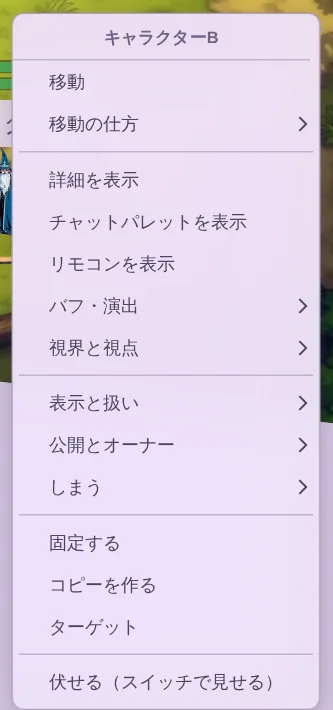
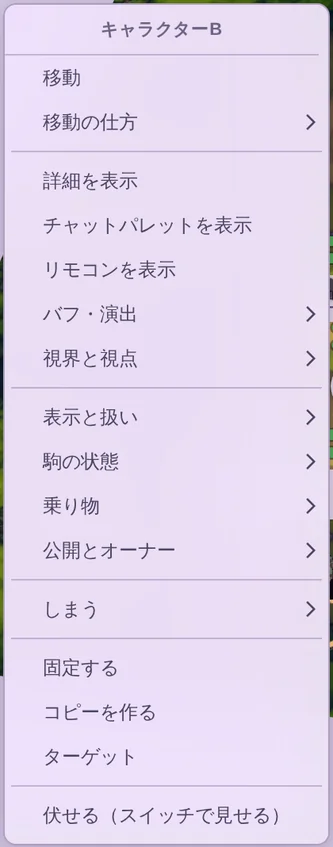
docs(website): bring the manual, the feature list and the v1.66.0 notes up to date
- The notes say only the piece's menu is grouped now, sum up ruby and the
  see-through pictures among the rest, are dated for today, and list the
  fixes to what earlier versions already did: the hex pedestal turning a
  piece pressed inside it, submenus opening where the first one opened, and
  chat search marks left behind by a box closed at once.
- Riding says who may not steer a mount, that a rider held by an enemy is
  left behind and gets off, and when a mount keeps a turn of its own.
- Engagement zones say what a reader who does not see a piece is shown and
  asked, that riders and those held are set out with their mount or holder,
  and that two zones joined keep the lower limit set on them.
- Kinds of move say a move in cells rounds down once, after the factor.
- The feature list gains engagement zones, mounts, kinds of move, ways of
  straight legs and see-through pictures, and the piece menu shot is taken
  again from the menu as it now stands.

diff --git a/website/release-notes/v1.66.0.md b/website/release-notes/v1.66.0.md
@@ -1,6 +1,6 @@
 # v1.66.0
 
-2026-10-12リリース
+2026-10-13リリース
 
 敵と入り乱れて戦っている場所を、円の**交戦エリア**として卓に描けるようになりました。加わっている駒の数で大きさが変わり、近づいたエリアは1つにまとまり、片方の陣営がいなくなれば消えます。経路を決めて動かすときは、届く敵やエリアの側が移動に割り込んで止められます。射線を遮るものの確認、戦闘の始まりの並べ方、距離による修正の表示もそろえました。点と円で位置を管理して戦うルールを、部屋の設定と組み合わせて再現できます。
 
@@ -8,7 +8,11 @@
 
 駒をほかの駒に乗せて、**乗り物**として一緒に動かせるようになりました。乗り物と乗り手は同じ手番に動き、転んだり倒れたりすると乗り手が落ちて、落下距離がチャットに出ます。
 
-コマとテーブルの右クリックメニューは、よく使う項目だけを残し、ほかを名前の付いたグループにまとめました。
+ルビを親文字1文字ずつにも振れるようにし、ルビの見え方を読み手ごとに選べるようにもしました。
+
+コマの絵の透明なところを押すと、後ろにあるコマを掴めます。
+
+コマの右クリックメニューは、よく使う項目だけを残し、ほかを名前の付いたグループにまとめました。
 
 ## ⚔ 交戦エリア
 
@@ -93,4 +97,7 @@ GMは駒のメニューの「初期配置」で、相手の陣営の先頭と、
 - バフ編集の追加ボタンで足したバフが、ラウンドで減っていませんでした。以前のバージョンで足して残っていたバフも、ラウンドで減るようにしました
 - 移動の計画を開いたときに画面の下に出る帯が、最初から開いているチャットウィンドウの下に隠れることがありました。帯をパネルより前に出すようにしました
 - Safariで、ループ位置のある曲の長さが、ジュークボックスに1秒短く出ていました。曲の長さは、一番近い秒で出すようにしました
+- ヘクスの卓で、コマの台座の内側を押して引くと、コマが動かずに回ってしまうことがありました。四角の卓と同じく、台座の内側を押せばコマを掴むようにしました
+- 右クリックメニューで、グループから隣のグループへポインタを移すと、あとのグループの中身が最初に開いた位置に出ていました。開いたグループの横に出るようにしました
+- チャットの検索欄を開いてすぐ閉じると、見つけた言葉の印が残ることがありました
 - `t:HP-([k10@13]+5h+3)`のように、ダイスのコマンドに付く記号が角括弧の外にあるリソース操作が、「計算できません」になっていました。式全体を1つのコマンドとして振るようにしました。角括弧のロールが自動的失敗になったときは、変化なしと出します

diff --git a/website/manual/ride.md b/website/manual/ride.md
@@ -37,9 +37,11 @@
 
 ## 一緒に動く
 
-乗り手が移動の計画を開くと、乗り物の計画になります。数えるのは、乗り物の移動力と、選んだ移動の種類です。歩き終えると、乗っている駒をみな乗り物と同じ点へ運びます。同乗している駒と積まれている駒は、自分では動けません。乗り手のいない乗り物を動かせるのは、GMだけです。
+乗り手が移動の計画を開くと、乗り物の計画になります。数えるのは、乗り物の移動力と、選んだ移動の種類です。歩き終えると、乗っている駒をみな乗り物と同じ点へ運びます。同乗している駒と積まれている駒は、自分では動けません。乗り手のいない乗り物を動かせるのは、GMだけです。倒れている乗り手、その場から動けない乗り手、敵につかまれている乗り手は、乗り物を動かせません。計画を開こうとすると、そのことを知らせます。
 
 乗り物を手で掴んで置いたときも、乗っている駒は一緒に運ばれます。乗っている駒だけを手で掴み、乗り物から離れたところに置くと、その駒はそこで降ります。
+
+敵につかまれている駒は、つかんでいる駒から離れないので、乗り物と一緒には運ばれません。乗り物が動くと、その駒はその場で降ります。
 
 3Dの卓では、乗っている駒は乗り物の上に立ち、乗り物の絵の手前に描かれます。
 
@@ -48,6 +50,8 @@
 ## 手番
 
 [行動順](/manual/turn-order)を回しているあいだ、乗られている乗り物と同乗している駒は、乗り手の手番に一緒に動きます。2つは行動順の一覧から外れ、ラウンド表示では乗り手の丸に小さな丸で重なります。手番の始まりと終わりのバフの減り方も、乗り手と同じです。積まれている駒は、自分の手番のままです。
+
+前に乗る駒が[手番をもたない](/manual/turn-order#手番を持たないコマ)駒か、インベントリに出さない駒のときは、乗り物と同乗している駒は行動順に残り、それぞれの手番で動きます。
 
 手番を回しているあいだは、次の決まりもAxeが守らせます。行動順を回していないときは、どれも止めません。
 

diff --git a/website/guide/features.md b/website/guide/features.md
@@ -52,8 +52,22 @@ GMは、部屋の全員を同じコマの目線にそろえられます。
 コマごとに歩く・登る・泳ぐ・這う・飛ぶを選べて、飛んでいるあいだは地面の追加コストを払いません。
 大きなコマは身を縮めて狭い隙間を通れます。
 1マスが何メートルかを決めておけば、距離は「3マス（15m）」のように出ます。
+「全力」「通常」のような移動の種類を部屋で決めておけば、移動を計画するときに選べます。
+グリッドのない卓では、経路を折れ線で引いて、長さをメートルで数えられます。
 
 くわしくは[移動範囲](/manual/move-range)にあります。
+
+駒をほかの駒に乗せて、乗り物として一緒に動かせます。
+乗り手が移動を計画すると乗り物の移動力で進み、乗り物が転べば乗り手は落ちます。
+→ [乗り物に乗る](/manual/ride)
+
+## 交戦 — 入り乱れた戦いを円で描く
+
+敵と入り乱れて戦っている場所を、円の交戦エリアとして卓に描けます。
+加わっている駒の数で大きさが変わり、近づいたエリアは1つにまとまります。
+経路を決めて動かすときは、届く敵やエリアの側が割り込んで、移動を止められます。
+撃つ前には射線を遮るものを一覧で確かめられ、戦闘の始まりにはGMが両方の陣営を一度に並べられます。
+→ [交戦エリア](/manual/engagement-zone)
 
 ## 一晩を記録して、あとから作り直せる
 
@@ -82,6 +96,7 @@ GMは、部屋の全員を同じコマの目線にそろえられます。
 
 キャラクターコマは、画像をブラウザにドロップするだけでも作れます。
 画像は取り込む前に、切り抜き・背景の透過・回転・縮小ができます（[画像](/manual/images#画像を編集する)）。
+コマの絵の透明なところは押しても素通りするので、大きなコマの絵のすき間から後ろのコマを掴めます。
 シートはセクションとカードで組み立てる形で、並べ替えも項目の追加も卓の途中でできます。
 
 他のツールで作ったキャラクターは、そのまま持ち込めます。

diff --git a/website/manual/turn-order.md b/website/manual/turn-order.md
@@ -87,7 +87,7 @@ GMツールバーには前後の送りボタンも付いているので、進行
 
 ### 乗り物と乗り手
 
-乗り手が前に乗っている乗り物と、後ろに同乗しているコマは、乗り手の手番に一緒に動きます。2つは行動順から外れ、ラウンド表示では乗り手の丸に小さな丸で重なります。くわしくは[乗り物に乗る](/manual/ride#手番)にあります。
+乗り手が前に乗っている乗り物と、後ろに同乗しているコマは、乗り手の手番に一緒に動きます。2つは行動順から外れ、ラウンド表示では乗り手の丸に小さな丸で重なります。前に乗るコマが手番をもたないコマか、インベントリに出さないコマのときは、乗り物と同乗しているコマは行動順に残ります。くわしくは[乗り物に乗る](/manual/ride#手番)にあります。
 
 ## バフの残ラウンドを自動で減らす
 
